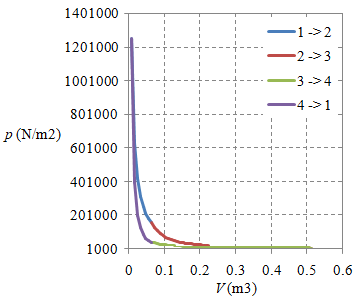
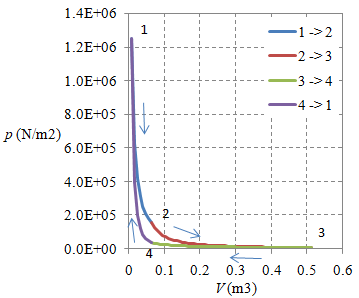
finish

diff --git a/_posts/phys/2020-12-18-carnot-cycle-example-1.md b/_posts/phys/2020-12-18-carnot-cycle-example-1.md
@@ -34,4 +34,42 @@ Figure <a name="fig:ccex1-pV-diagram-log-scale">1</a> A Carnot cycle, which cons
 
 Note that Fig. <a href="#fig:ccex1-pV-diagram-normal-scale">1</a> in normal scale and with real number is not shown as in theoretical discussion in [Carnot cyle](carnot-cycle), where it has been so illustrated to give a better view in differing each of the processes.
 
+
+## Problem
+A monoatomic ideal gas is performing a Carnot cycle. There are four states indicated by $1$, $2$, $3$, $4$ to give coordinates in $(p, V, T)$ space as $(p_i, V_i, T_i)$ with $i = 1, 2, 3, 4$. Illustration of the cycle in $p-V$ diagram is shown in Fig <a href="#fig:cce1-carnot-cycle">1</a>. Note that we use theoretical $p-V$ diagram for better illustration.
+
+{:refdef: style="text-align: center;"}
+![..](/assets/img/phys/thermodynamics/carnot-cycle.png)
+<br />
+Figure <a name="fig:cce-1-carnot-cycle">1</a> A Carnot cycle consists of isothermal expansion ($1 \rightarrow 2$), adiabatic expansion ($2 \rightarrow 3$), isothermal compression ($3 \rightarrow 4$), and adiabatic compression ($4 \rightarrow 1$) processes.
+{: refdef}
+
+Highest pressure in the cyle is $1.25 \times 10^6 \ {\rm N/m^2}$, lowest volume is $0.008 \ {\rm m^3}$, and highest temperature is $2000 \ \{\rm K}$, while lowest pressure in the cyle is $39.063 \times 10^3 \ {\rm N/m^2}$, highest volume is $0.512 \ {\rm m^3}$, and lowest temperature is $500 \ \{\rm K}$. Please (a) find amount of gas $n$ in $\rm mol$, (b) write equations relating two states $(p_2, V_2, T_2)$ and $(p_1, V_1, T_1)$, $(p_2, V_2, T_2)$ and $(p_3, V_3, T_3)$, $(p_4, V_4, T_4)$ and $(p_1, V_1, T_1)$, and $(p_4, V_4, T_4)$ and $(p_3, V_3, T_3)$, (c) find gas pressure $p_2$ and volume $V_2$, (d) find gas pressure $p_4$ and volume $V_4$, (e) complete the following table, and (f) calculate efficiency of the cycle.
+
+**State** | $p \ (\rm N/m^2)$ | $V \ (\rm m^3)$ | $T \ (\rm K)$ | $pV/nRT$
+$1$ | | | | 
+$2$ | | | |
+$3$ | | | |
+$3$ | | | |
+
+Remember that $C_p = \frac52 R$, $C_p = \frac32 R$, $\gamma = C_p / C_V$, ideal gas $pV = nRT$, isothermal process $pV = \rm const$, and adiabatic process $pV^\gamma = \rm const$. Note that last column in previous table is for checkin the results using ideal gas law.
+
+### Short solution
+Please use following information only for comfirmation your answer after you solve the problem.
+
+```
+1 1250000	0.008	2000 1  400
+2 156250	0.064	2000 1 1600
+3   4883	0.512	 500 1 1600
+4  39063	0.064	 500 1  400
+```
+
+## Exercise
+1. Try the online resources [[1](#ref1)] and [[2](#ref2)] to get another variation of states $(p_i, V_i, T_i)$ with $i = 1, 2, 3, 4$ of a Carnot cycle or the cycle efficiency.
+
+
+## References
+1. <a name="ref1"></a>Narlin Beaty, "Carnot Engine Practice Problem", GeoGebra, 8 Sep 2016, url <https://www.geogebra.org/m/vyXcfAKS> [20201218].
+2. <a name="ref2"></a>Chris Hamper, "Carnot cycle ( with energies and efficiency)", GeoGebra, 17 Jan 2015, url <https://www.geogebra.org/m/dW93FqWd> [20201218].
+
 + [Article history](https://github.com/butiran/butiran.github.io/commits/master/_posts/phys/2020-12-18-carnot-cycle-example-1.md)
